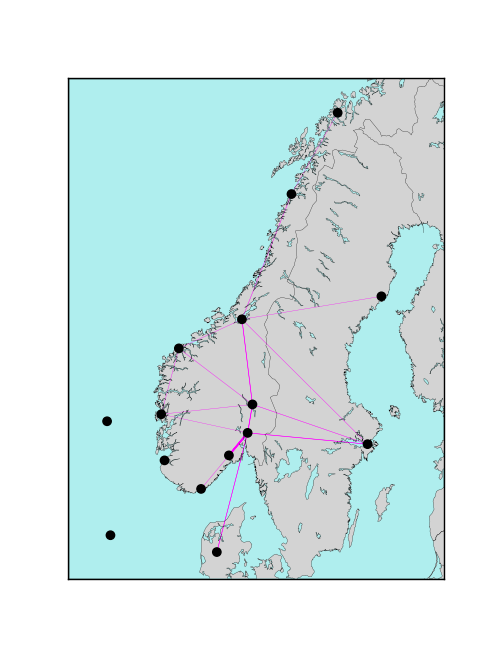
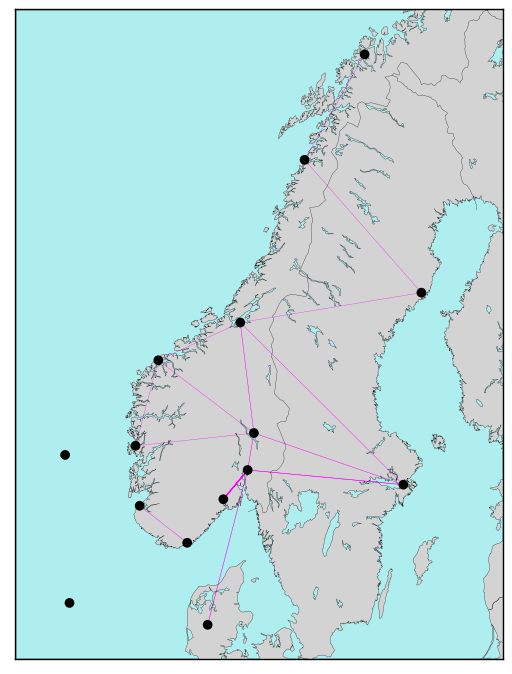
Merge branch 'Steffen' + UPDATE plots

diff --git a/_plot_infrastructure_on_map.py b/_plot_infrastructure_on_map.py
@@ -23,14 +23,14 @@ import matplotlib.patches as patches #import library for fancy arrows/edges
 # a. Charging
 
 # function that processes the charging infrastructure data, puts it in a data frame
-def process_charging_infra(y_charging, sel_time_period, sel_scenario="BBB", cumulative=False):
+def process_charging_infra(y_charging, sel_time_period, sel_scenario="BBB", cumulative=False, fuel_type="Battery electric"):
     
     #initialize lists that will store output
     arcs = []       # all relevant arcs
     infra = []      # investment levels in charging infrastructure
 
     for index, row in y_charging.iterrows():
-        if row["mode"] == "Road" and row["fuel"] == "Battery electric": # check road-electric
+        if row["mode"] == "Road" and row["fuel"] == fuel_type: # check road-electric
             if row["scenario"] == sel_scenario: # check scenario
                 if (cumulative == True and row["time_period"] <= sel_time_period) or (cumulative == False and row["time_period"] == sel_time_period):
                     #temporarily store current arc and its opposite
@@ -195,7 +195,7 @@ def process_and_plot_charging_infra(output, base_data, sel_time_period, sel_scen
 
     # make plot
     print("Making plot...")
-    filename = f"Plots/charging_infra_plot_{sel_time_period}_{sel_scenario}_{cumulative}.png"
+    filename = f"Data/Plots/charging_infra_plot_{sel_time_period}_{sel_scenario}_{cumulative}.png"
     plot_charging_infra_on_map(df_infra, base_data, show_fig, save_fig, filename)
 
 
@@ -342,7 +342,7 @@ def process_and_plot_terminal_infra(output, base_data, mode, terminal_type, sel_
 
 # Read model output
 analyses_type = 'SP' # EV , EEV, 'SP
-scenario_type = "4Scen" # 9Scen
+scenario_type = "9Scen" # 9Scen
 with open(r'Data/base_data/' + scenario_type + ".pickle", 'rb') as data_file:
     base_data = pickle.load(data_file)
 with open(r'Data/Output/'+analyses_type + "_" + scenario_type + ".pickle", 'rb') as output_file:

diff --git a/_plot_demand_in_network.py b/_plot_demand_in_network.py
@@ -84,8 +84,8 @@ with open(r'Data\\base_data\\9Scen.pickle', 'rb') as data_file:
         #draw the basic map including country borders
         map = Basemap(llcrnrlon=1, urcrnrlon=29, llcrnrlat=55, urcrnrlat=70, resolution='i', projection='aeqd', lat_0=63.4, lon_0=10.4) # Azimuthal Equidistant Projection
         # map = Basemap(llcrnrlon=1, urcrnrlon=29, llcrnrlat=55, urcrnrlat=70, resolution='i', projection='tmerc', lat_0=0, lon_0=0) # mercator projection
-        map.drawmapboundary(fill_color='aqua')
-        map.fillcontinents(color='lightgrey', lake_color='aqua')
+        map.drawmapboundary(fill_color='paleturquoise')
+        map.fillcontinents(color='lightgrey', lake_color='paleturquoise')
         map.drawcoastlines(linewidth=0.2)
         map.drawcountries(linewidth=0.2)
 
